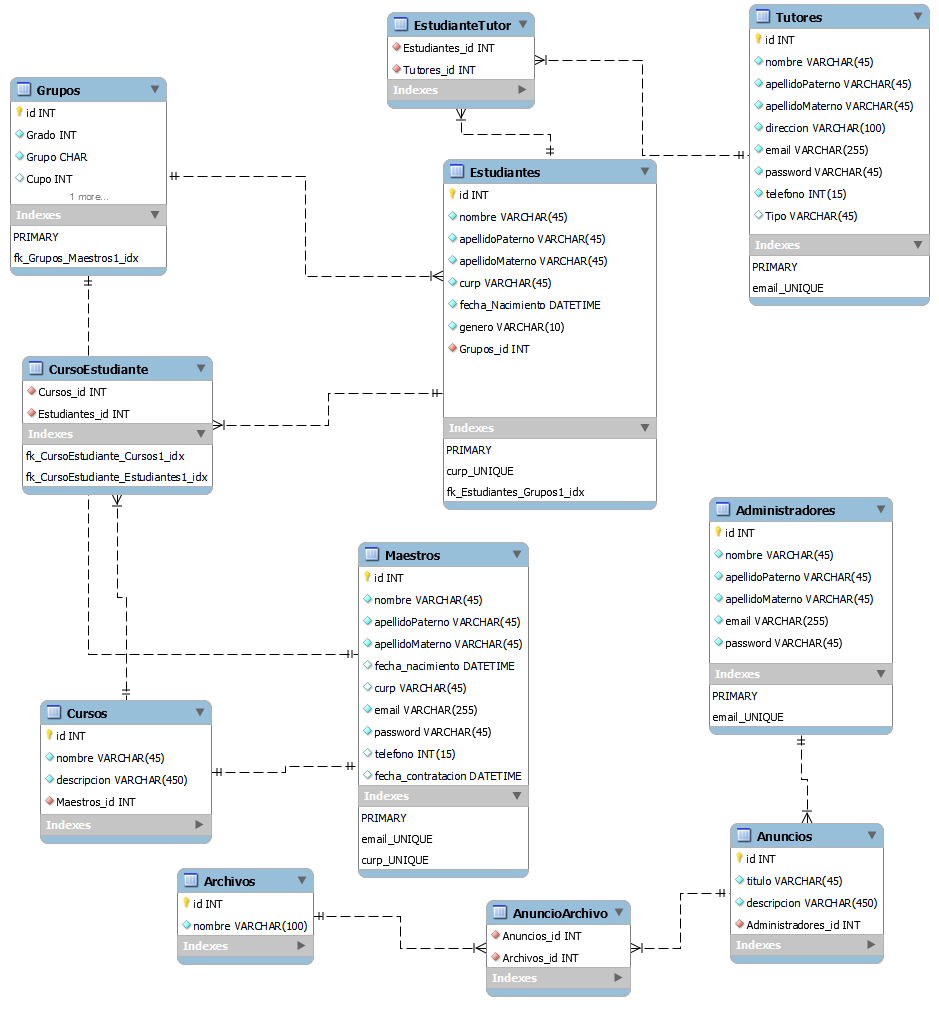
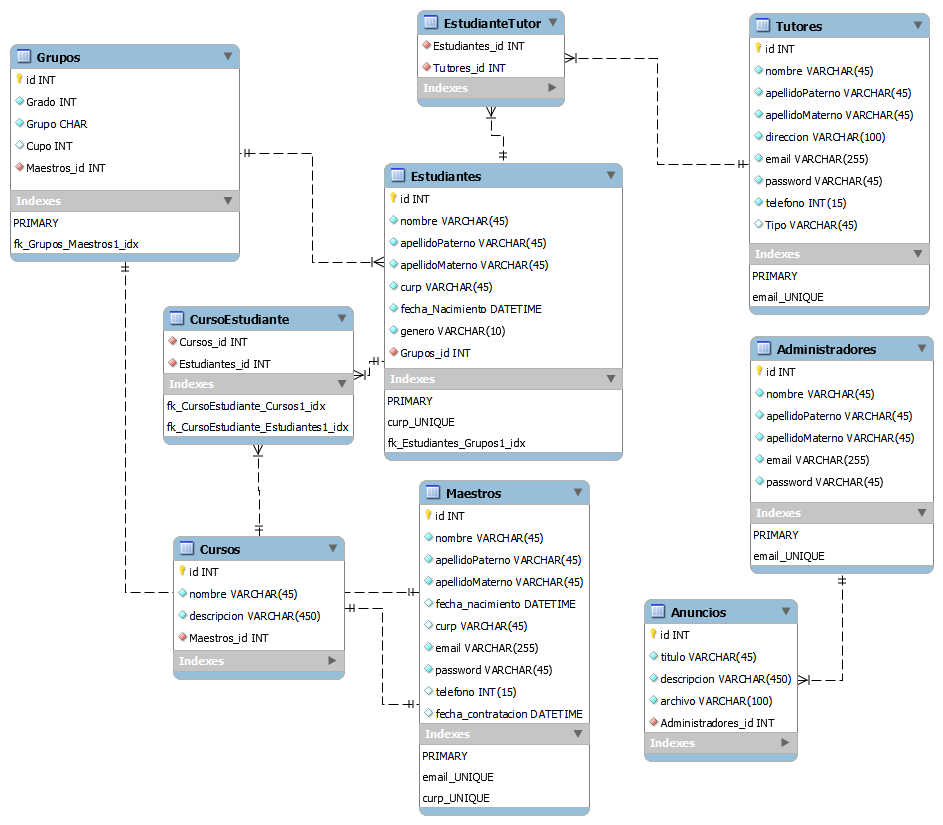
Cambios a mainController y agrego ANuncios

Changed region(s): [[0.0, 0.0, 1.0, 1.0], [0.2471, 0.1515, 0.278, 0.1818]]

diff --git a/src/controllers/mainController.js b/src/controllers/mainController.js
@@ -1,32 +1,31 @@
-const path = require('path');
 
 const mainController = {
     index: (req, res) => {
         res.render('index')
     },
     nosotros: (req,res) =>{
-        res.render(path.join(__dirname, '../views/nosotros'))
+        res.render('nosotros')
     },
     admision: (req,res) =>{
-        res.render(path.join(__dirname, '../views/admision'))
+        res.render('admision')
     }, 
     plan: (req,res) =>{
-        res.render(path.join(__dirname, '../views/plan'))
+        res.render('plan')
     }, 
     calendario: (req,res) =>{
-        res.render(path.join(__dirname, '../views/calendario'))
+        res.render('calendario')
     }, 
     galeria: (req,res) =>{
-        res.render(path.join(__dirname, '../views/galeria'))
+        res.render('galeria')
     }, 
     contacto: (req,res) =>{
-        res.render(path.join(__dirname, '../views/contacto'))
+        res.render('contacto')
     }, 
     otros: (req,res) =>{
-        res.render(path.join(__dirname, '../views/otros'))
+        res.render('otros')
     }, 
     productos: (req,res) =>{
-        res.render(path.join(__dirname, '../views/productos'))
+        res.render('productos')
     },
     register: (req, res) => {
         res.render('register')

diff --git a/app.js b/app.js
@@ -1,6 +1,7 @@
 const express = require('express');
 const path = require('path');
 
+
 const app = express();
 
 const port = process.env.PORT || 3000;
@@ -8,6 +9,10 @@ const port = process.env.PORT || 3000;
 // Reconocimeinto de ruta a carpeta public(css, img, js, etc. )
 const publicPath =path.resolve(__dirname, 'public');
 app.use(express.static(publicPath));
+
+// Motor de vistas
+app.set('view engine','ejs');
+app.set('views', path.join(__dirname, './src/views'));
 
 // Creación de rutas 
 const mainRouter = require('./src/routes/mainRouter');
@@ -22,8 +27,6 @@ app.use('/maestros', maestrosRouter);
 app.use('/tutores', tutoresRouter);
 app.use('/anuncios', anunciosRouter);
 
-// Motor de vistas
-app.set('view engine','ejs');
-app.set('views', path.join(__dirname, './src/views'));
+
 
 app.listen(process.env.PORT || port, () => console.log(`Servidor corriendo en puerto ${port}`));

diff --git a/src/database/models/Anuncio.js b/src/database/models/Anuncio.js
@@ -13,6 +13,9 @@ module.exports = function(sequelize, dataTypes){
         descripcion:{
             type: dataTypes.STRING(450), 
         }, 
+        archivo:{
+            type: dataTypes.STRING(100), 
+        }, 
     };
 
     let config = {
@@ -27,14 +30,7 @@ module.exports = function(sequelize, dataTypes){
             as: "por_administrador",
             foreignKey: "Administradores_id"
           });
-        
-        Anuncio.belongsToMany(models.Archivo, {
-            as: "Anuncios",
-            through: "Anuncio_Archivo",
-            foreignKey: "Anuncios_id",
-            otherKey: "Archivos_id",
-            timestamps: false
-          });  
+         
     }
     return Anuncio;
 }

diff --git a/Public/css/styles1.css b/Public/css/styles1.css
@@ -5,6 +5,7 @@
 
 /* slider anuncios*/
 @import "sliderAnuncios.css";
+@import "anunciosForm.css";
 
 *, *::after, *::before {
   margin: 0;
@@ -15,8 +16,8 @@
 body {
 	background-color: #fff;
 	color: #222;
-  font-family: 'Open Sans', 'Arial', sans-serif;
-  font-family: 'Poppinsm', 'Arial';/*'Open Sans', 'Arial', sans-serif;*/
+  /*font-family: 'Open Sans', 'Arial', sans-serif;*/
+  font-family: 'Poppinsm', 'Arial', sans-serif;/*'Open Sans', 'Arial', sans-serif;*/
 }
 
 /*Header */
